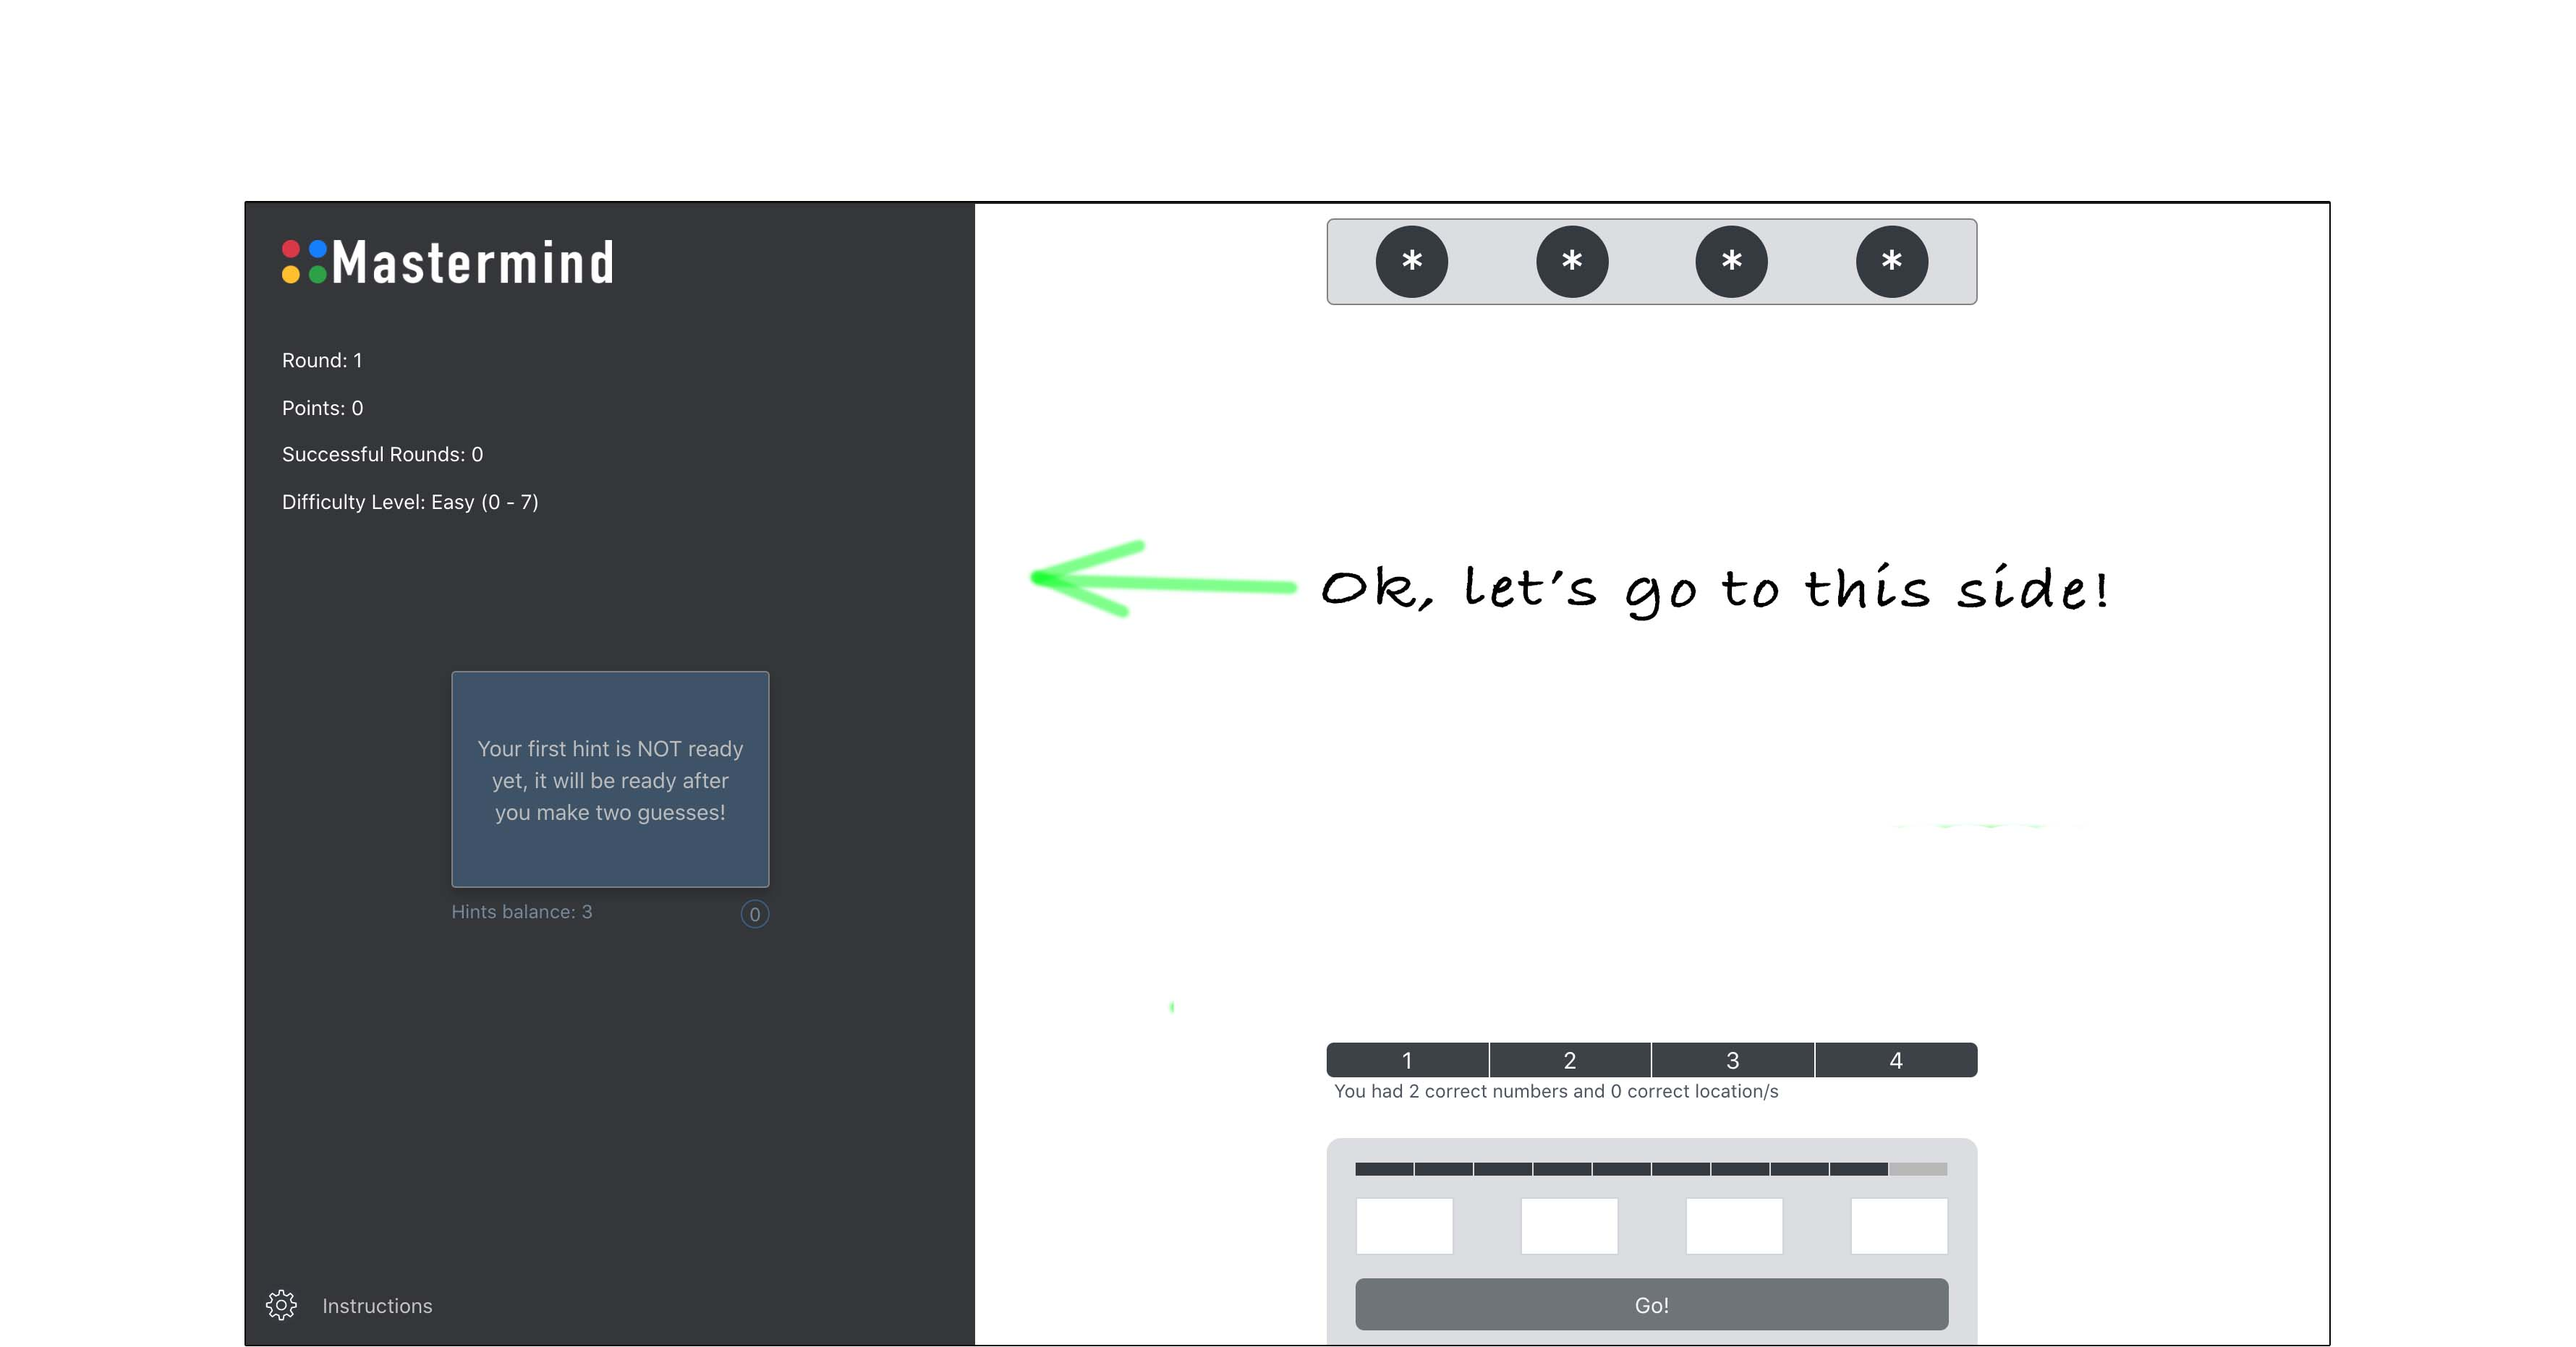
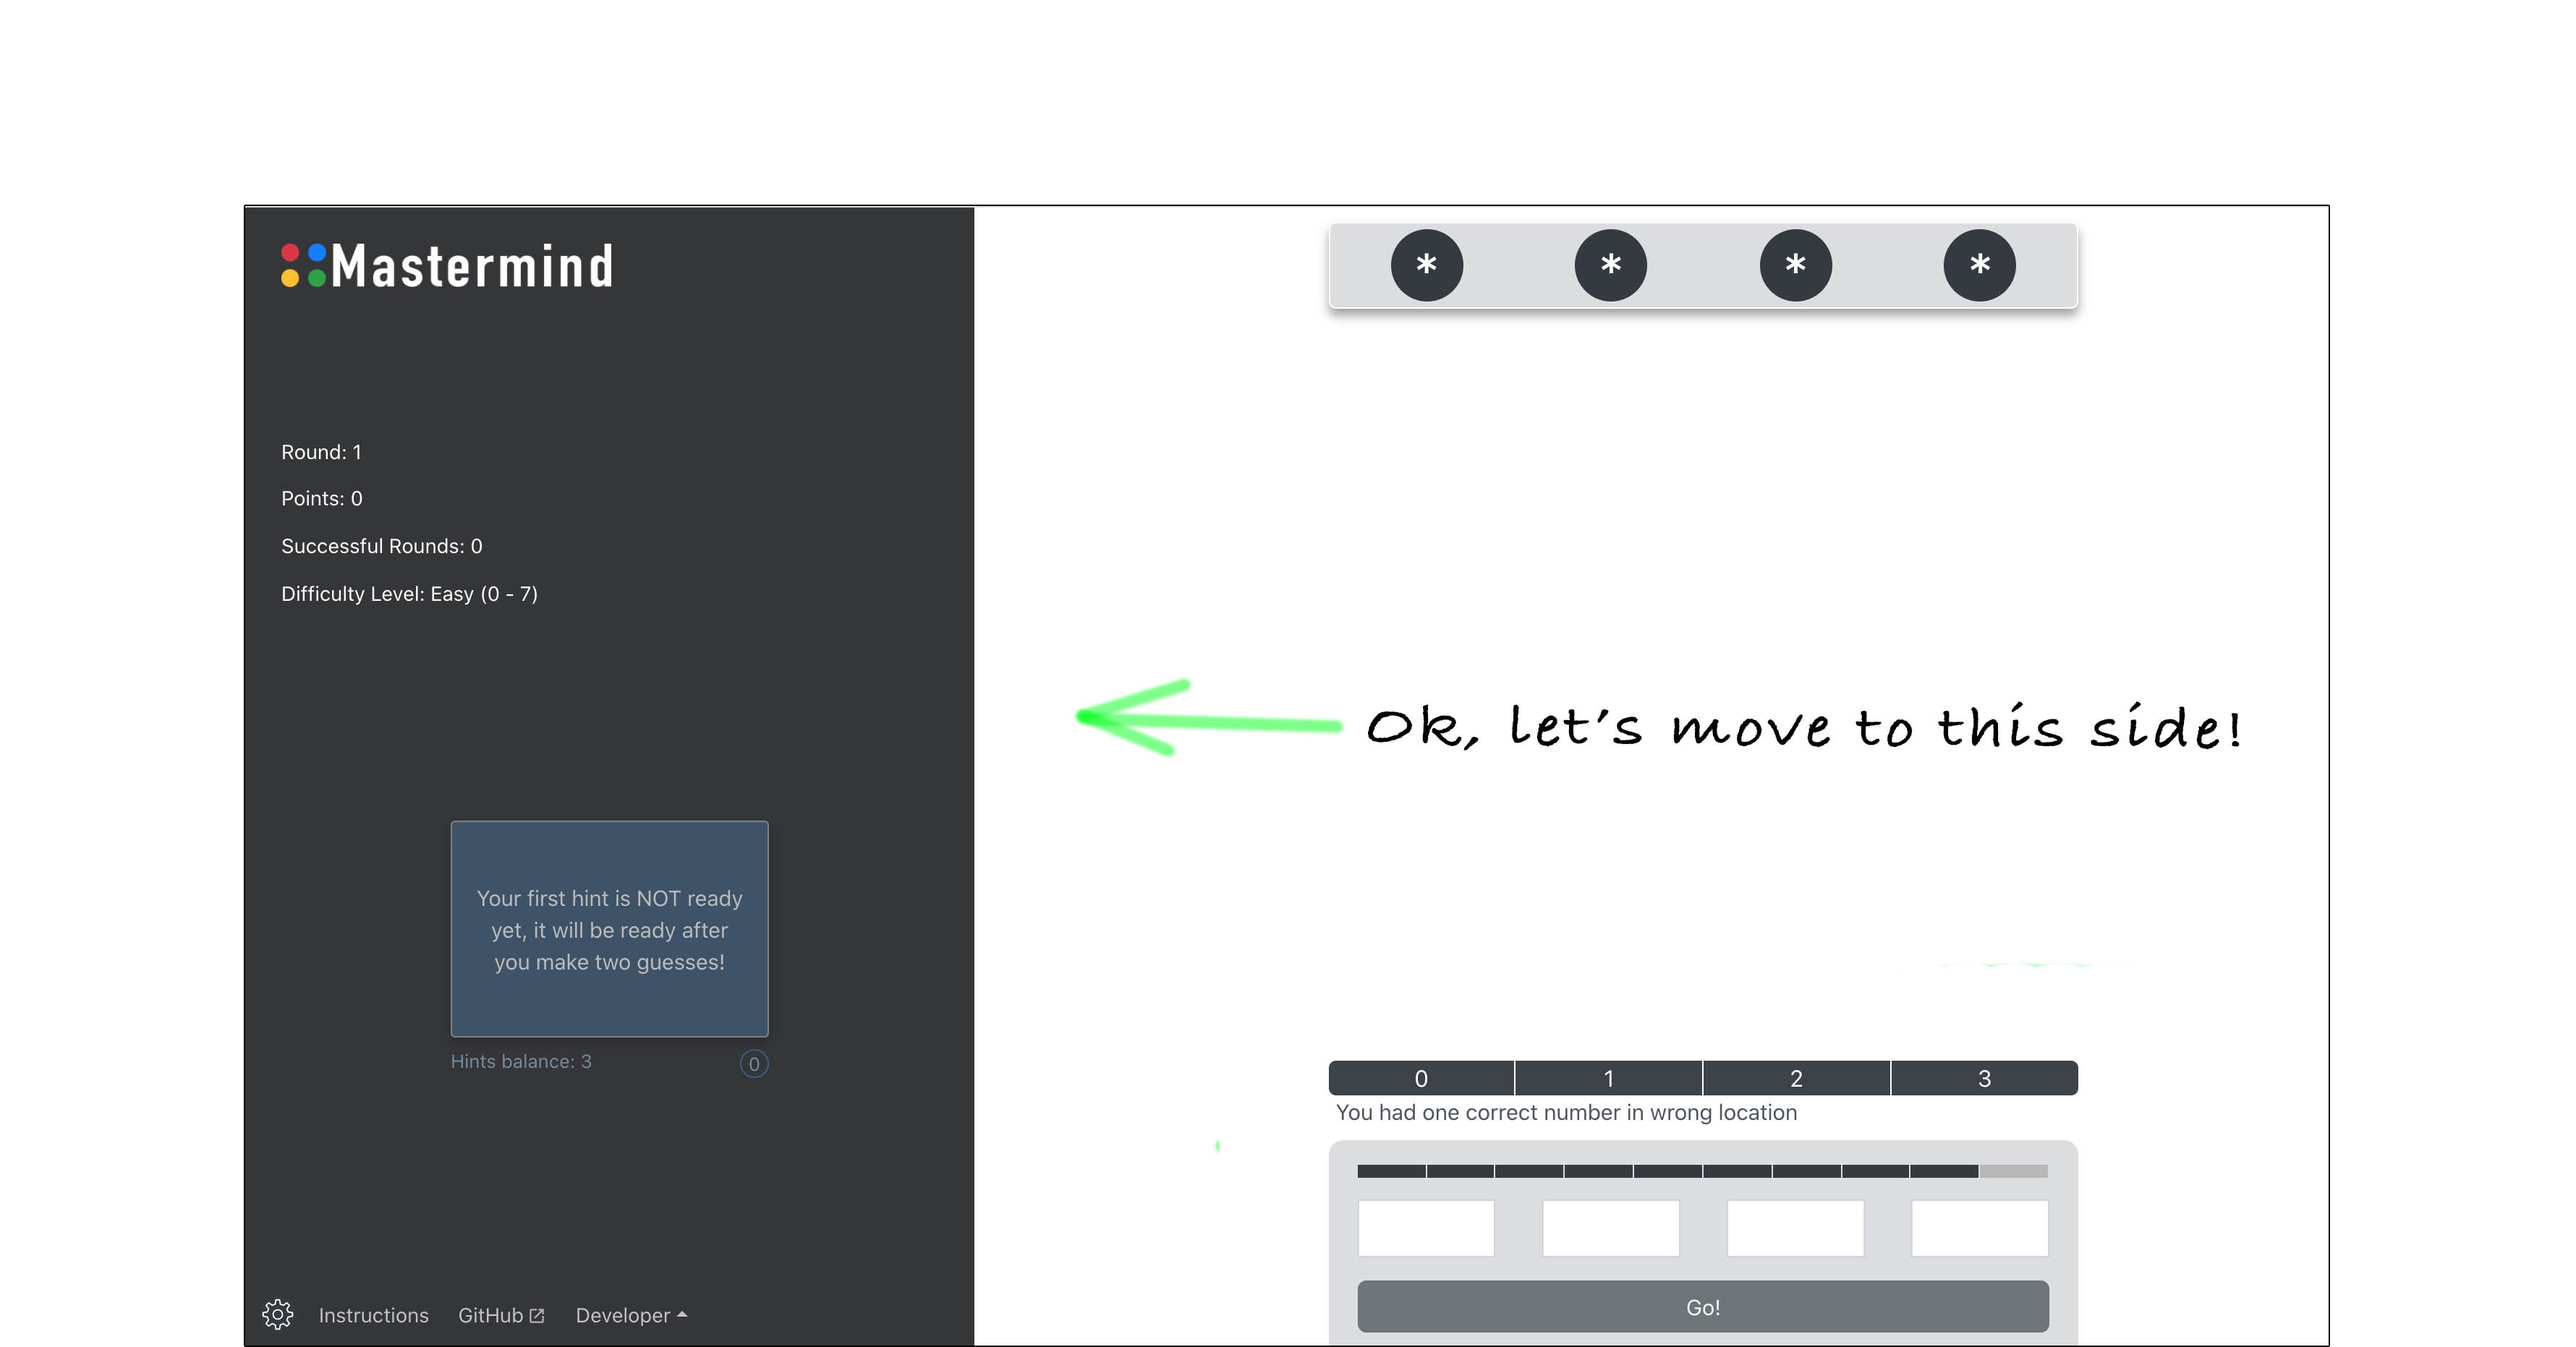
Update all imgaes of isntructions

diff --git a/src/containers/sideBar/SideBar.css b/src/containers/sideBar/SideBar.css
@@ -2,9 +2,11 @@
   width: 35vw;
   background: #35363a;
   cursor: default;
-  height: 100vh;
-  position: fixed;
-  top: 0;
+  height: unset;
+  display: flex;
+  flex-direction: column;
+  justify-content: space-between;
+  align-items: flex-start;
 }
 
 .logo {
@@ -37,9 +39,7 @@
   display: flex;
   justify-content: space-between;
   align-items: center;
-  position: fixed;
-  bottom: 15px;
-  left: 12px;
+  margin: 10px;
 }
 
 .side-bar-instructions-link {
@@ -47,7 +47,6 @@
   color: rgba(255, 255, 255, 0.7);
   font-size: 14px;
   padding-right: 20px;
-  
 }
 
 .side-bar-instructions-link:hover {
@@ -59,7 +58,7 @@
   background: transparent;
   border: transparent;
   outline: none;
-  box-shadow:  0 0 0 0 #ddd;
+  box-shadow: 0 0 0 0 #ddd;
   padding: 0 0 2px 0;
   margin: 0;
   font-size: 14px;
@@ -96,3 +95,19 @@
   text-decoration: none;
 }
 
+@media screen and (max-width: 900px) {
+  .app-side-bar {
+    width: 100%;
+    background: #35363a;
+    cursor: default;
+  }
+
+  .side-bar-btns-container {
+    display: flex;
+    justify-content: space-between;
+    align-items: center;
+    /* position: absolute;
+    bottom: 15px;
+    left: 12px; */
+  }
+}

diff --git a/src/assets/data/images.js b/src/assets/data/images.js
@@ -1,6 +1,7 @@
 import mainImg from "../../assets/images/01-main.jpg";
 import codeImg from "../../assets/images/02-code-.jpg";
-import formImg from "../../assets/images/03-code-.jpg";
+import codeImg2 from "../../assets/images/03-code-.jpg";
+import codeImg3 from "../../assets/images/03-code-2-1.jpg";
 import dontWorryImg from "../../assets/images/04-code-.jpg";
 import formImg1 from "../../assets/images/05-form-.jpg";
 import formImg2 from "../../assets/images/06-form-.jpg";
@@ -24,7 +25,8 @@ import instImg from "../../assets/images/22-instruction-.jpg";
 const data = [
     mainImg,
     codeImg,
-    formImg,
+    codeImg2,
+    codeImg3,
     dontWorryImg,
     formImg1,
     formImg2,

diff --git a/src/containers/guess/Guess.js b/src/containers/guess/Guess.js
@@ -54,9 +54,9 @@ class ShowGuess extends Component {
   msgStyle = () => {
     const { index, currentGuesses } = this.props;
     let length = currentGuesses.length;
-    let dynamicFontSize = 13 - ((length - index) / 5);
+    let dynamicFontSize = 1 - ((length - index) / 20);
     return {
-      fontSize: `${dynamicFontSize}px`
+      fontSize: `${dynamicFontSize}em`
     }
 
   }

diff --git a/src/component/instruction/Instruction.js b/src/component/instruction/Instruction.js
@@ -70,7 +70,7 @@ class Instruction extends Component {
         </p>
 
         <div className="instructions-imgs-instructions">
-            <h3 className="instructions-imgs-title">To learn how to play, here is a quick demo for you!</h3>
+            <h3 className="instructions-imgs-title">Visual Demo</h3>
           <div>
               {this.image()}
           </div>

diff --git a/src/containers/app/App.css b/src/containers/app/App.css
@@ -112,3 +112,26 @@
   margin: 0 6px;
   padding: 2px 9px;
 }
+
+
+@media screen and (max-width: 900px) {
+  .home-page {
+    display: block;
+  }
+
+  .game {
+    width: 100%;
+  }
+
+  .diff-level-note-text {
+    margin: 10px 0;
+    text-align: center;
+    font-size: 13px;
+}
+
+.guesses-container {
+  width: 98%;
+}
+
+
+}

diff --git a/src/containers/hint/Hint.css b/src/containers/hint/Hint.css
@@ -1,11 +1,14 @@
 .hint {
   color: #fff;
   display: flex;
-  align-items: flex-end;
-  margin: 100px auto 0 auto;
+  align-items: center;
   flex-direction: column;
+  width: -moz-fit-content;
   width: fit-content;
   cursor: default;
+  margin: 80px 0;
+  justify-content: center;
+  width: 100%;
 }
 
 .flip-card {

diff --git a/src/containers/guessingForm/GuessingForm.css b/src/containers/guessingForm/GuessingForm.css
@@ -33,3 +33,9 @@
   font-size: 24px;
   border-radius: 0px;
 }
+
+@media screen and (max-width: 900px) {
+  .gussing-form-container {
+    width: 94%;
+  }
+}

diff --git a/src/containers/codeKeeper/CodeKeeper.css b/src/containers/codeKeeper/CodeKeeper.css
@@ -39,3 +39,8 @@
 }
 
 
+@media screen and (max-width: 900px) {
+  .the-code {
+    width: 94%;
+  }
+}

diff --git a/src/containers/guess/Guess.css b/src/containers/guess/Guess.css
@@ -52,3 +52,7 @@ p {
 }
 
 
+@media screen and (max-width: 900px) {
+
+}
+

diff --git a/README.md b/README.md
@@ -1,6 +1,6 @@
 # Mastermind
 
-[Mastermind Live Website!](https://master.d3bmjn4idj74od.amplifyapp.com/)
+[Mastermind Website!](https://master.d3bmjn4idj74od.amplifyapp.com/)
 
 
 Created By: Hindreen Abdullah
@@ -44,11 +44,14 @@ Open http://localhost:3000 to view it in the browser.
 
 ## Extensions to be added:
 
-1. Make the game responsive; currently, the player cannot play on their small screens like phones.
+1. Make the game responsive; currently, the game is responsive but player cannot have the same experience as they would playing on desktop.
 
 2. User authentication to track and save game progress for each user.
 
 3. Give users the option to change numbers to colors when they play the game.
+
+4. Add timer to the game.
+
 
 ## Project Screenshots:
 
